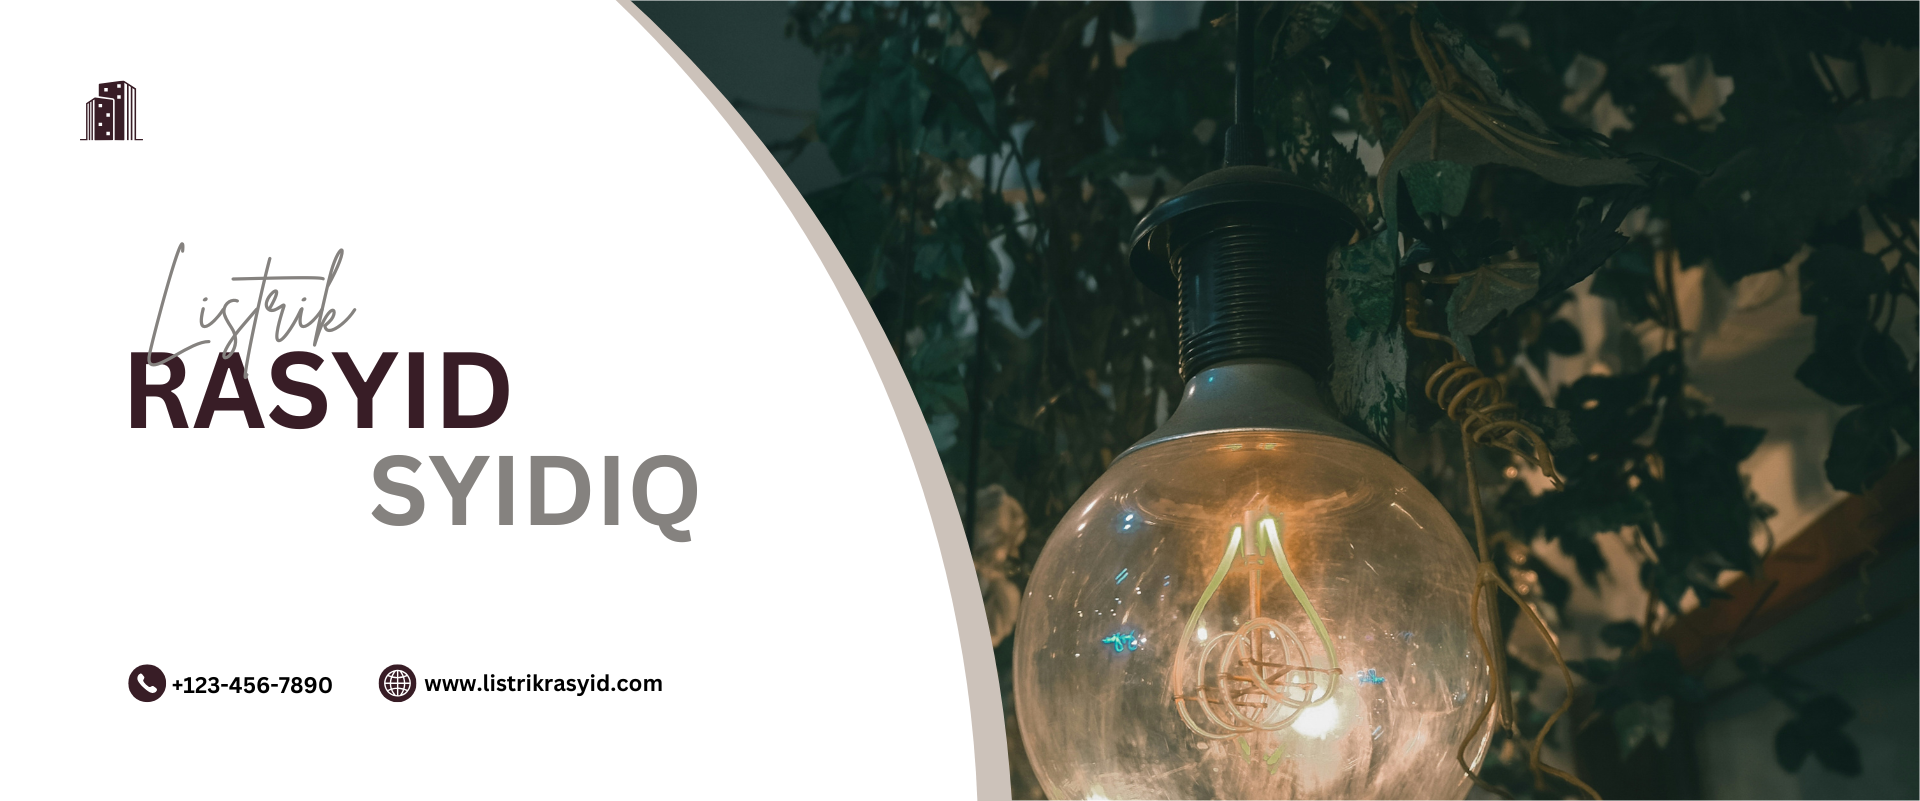
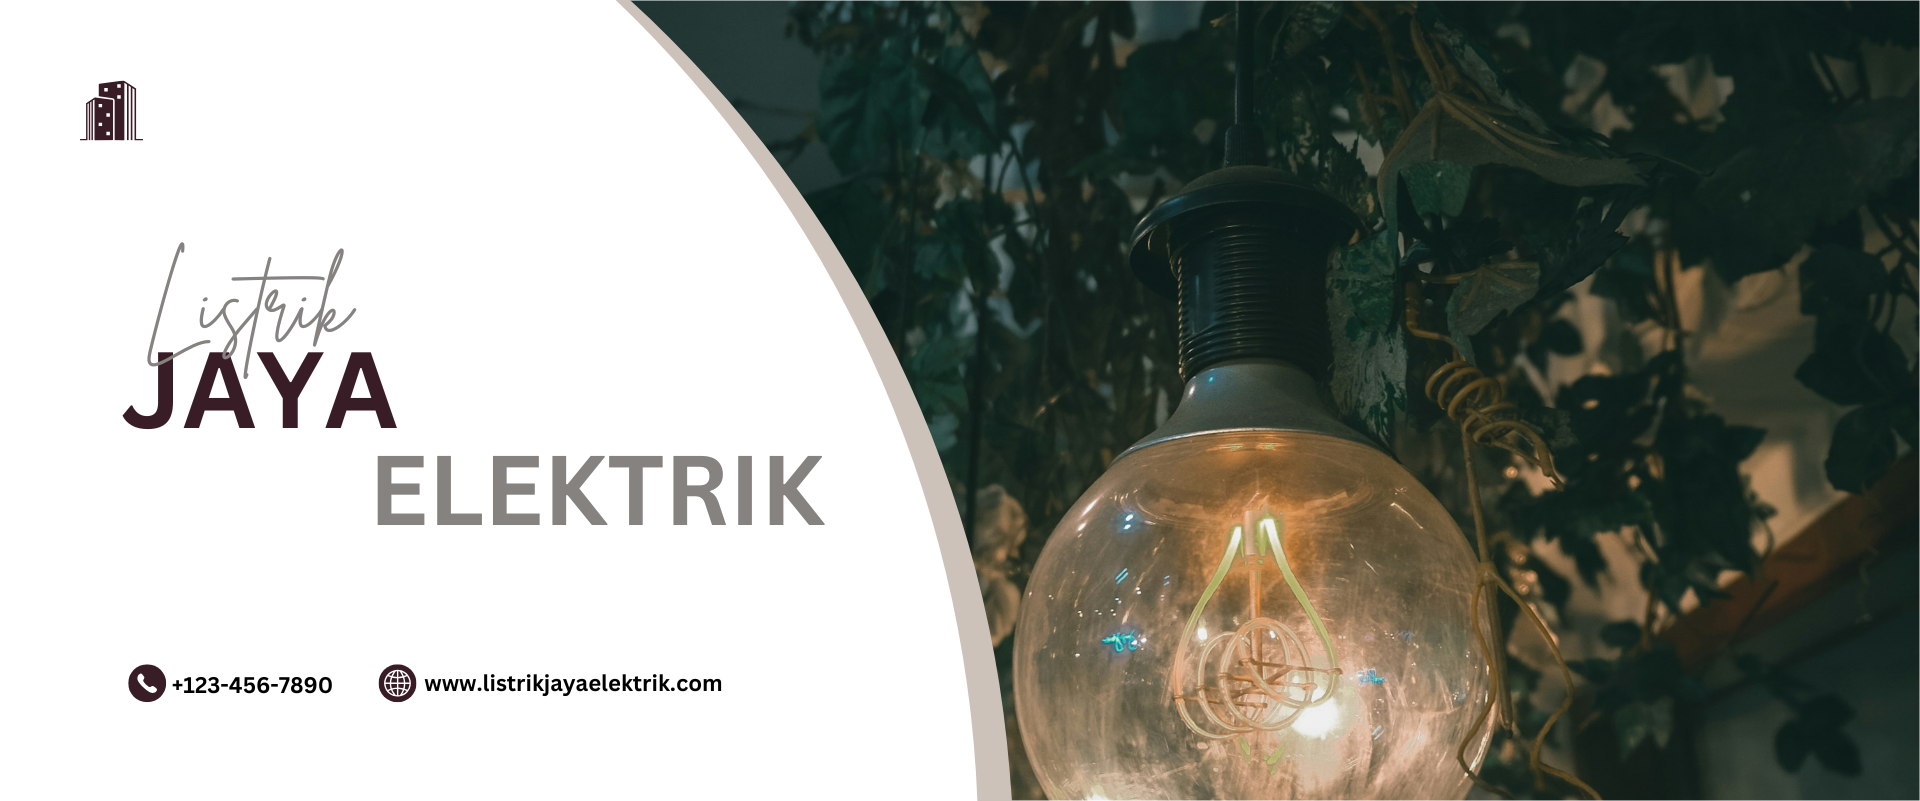
add revisi

Changed region(s): [[0.1875, 0.5618, 0.4375, 0.6866], [0.0625, 0.437, 0.2812, 0.5306], [0.2812, 0.8427, 0.375, 0.8739]]

diff --git a/application/views/Admin/vDetailPenilaian.php b/application/views/Admin/vDetailPenilaian.php
@@ -1,0 +1,96 @@
+<!-- Content Wrapper. Contains page content -->
+<div class="content-wrapper">
+	<!-- Content Header (Page header) -->
+	<section class="content-header">
+		<div class="container-fluid">
+			<div class="row mb-2">
+				<div class="col-sm-6">
+					<h1>Penilaian Produk</h1>
+
+					<!-- /.modal -->
+				</div>
+				<div class="col-sm-6">
+					<ol class="breadcrumb float-sm-right">
+						<li class="breadcrumb-item"><a href="#">Home</a></li>
+						<li class="breadcrumb-item active">User</li>
+					</ol>
+				</div>
+			</div>
+			<?php if ($this->session->userdata('success')) {
+			?>
+				<div class="callout callout-success">
+					<h5>Sukses!</h5>
+
+					<p><?= $this->session->userdata('success') ?></p>
+				</div>
+			<?php
+			} ?>
+
+		</div><!-- /.container-fluid -->
+
+	</section>
+
+	<!-- Main content -->
+	<section class="content">
+		<div class="container-fluid">
+			<div class="row">
+				<div class="col-12">
+					<div class="card">
+						<div class="card-header">
+							<h3 class="card-title">Informasi Penilaian Produk</h3>
+						</div>
+						<!-- /.card-header -->
+						<div class="card-body">
+							<table class="example1 table table-bordered table-striped">
+								<thead>
+									<tr>
+										<th>No</th>
+										<th>Nama Produk</th>
+										<th>Nama Pelanggan</th>
+										<th>Review</th>
+										<th>Rating</th>
+										<th>Time</th>
+									</tr>
+								</thead>
+								<tbody>
+									<?php
+									$no = 1;
+									foreach ($penilaian as $key => $value) {
+									?>
+										<tr>
+											<td><?= $no++ ?>.</td>
+											<td><?= $value->nama_produk ?></td>
+											<td><?= $value->nama_pelanggan ?></td>
+											<td><?= $value->review ?></td>
+											<td>
+												<?php for ($i = 0; $i < $value->rating; $i++) {
+												?>
+													<i style="color: orange;" class="fa fa-star"></i>
+												<?php
+												} ?>
+
+											</td>
+											<td><?= $value->time ?></td>
+
+										</tr>
+									<?php
+									}
+									?>
+
+
+								</tbody>
+
+							</table>
+						</div>
+						<!-- /.card-body -->
+					</div>
+					<!-- /.card -->
+				</div>
+				<!-- /.col -->
+			</div>
+			<!-- /.row -->
+		</div>
+		<!-- /.container-fluid -->
+	</section>
+	<!-- /.content -->
+</div>

diff --git a/application/views/Admin/Transaksi/vTransaksi.php b/application/views/Admin/Transaksi/vTransaksi.php
@@ -90,8 +90,10 @@
 																} ?></td>
 															<td><?php if ($value->metode_pembayaran == '1') {
 																	echo 'DANA';
-																} else {
+																} else if ($value->metode_pembayaran == '2') {
 																	echo 'OVO';
+																} else {
+																	echo 'Transfer Bank';
 																} ?></td>
 															<td>Rp. <?= number_format($value->total_pembayaran)  ?></td>
 															<td><?php if ($value->stat_transaksi == '0') {
@@ -159,8 +161,10 @@
 																} ?></td>
 															<td><?php if ($value->metode_pembayaran == '1') {
 																	echo 'DANA';
-																} else {
+																} else if ($value->metode_pembayaran == '2') {
 																	echo 'OVO';
+																} else {
+																	echo 'Transfer Bank';
 																} ?></td>
 															<td>Rp. <?= number_format($value->total_pembayaran)  ?></td>
 															<td><?php if ($value->stat_transaksi == '0') {
@@ -230,8 +234,10 @@
 																} ?></td>
 															<td><?php if ($value->metode_pembayaran == '1') {
 																	echo 'DANA';
-																} else {
+																} else if ($value->metode_pembayaran == '2') {
 																	echo 'OVO';
+																} else {
+																	echo 'Transfer Bank';
 																} ?></td>
 															<td>Rp. <?= number_format($value->total_pembayaran)  ?></td>
 															<td><?php if ($value->stat_transaksi == '0') {
@@ -300,8 +306,10 @@
 																} ?></td>
 															<td><?php if ($value->metode_pembayaran == '1') {
 																	echo 'DANA';
-																} else {
+																} else if ($value->metode_pembayaran == '2') {
 																	echo 'OVO';
+																} else {
+																	echo 'Transfer Bank';
 																} ?></td>
 															<td>Rp. <?= number_format($value->total_pembayaran)  ?></td>
 															<td><?php if ($value->stat_transaksi == '0') {

diff --git a/application/views/Pelanggan/vDetailPesanan.php b/application/views/Pelanggan/vDetailPesanan.php
@@ -173,11 +173,15 @@
 									<?php
 									if ($detail['pelanggan']->metode_pembayaran == '1') {
 									?>
-										<small>Pembayaran dapat dilakukan melalui DANA Atas Nama <strong>Listrik Rasyid Syidiq</strong> dengan Nomor Dana. <strong>085-432-948-934</strong></small><br>
+										<small>Pembayaran dapat dilakukan melalui DANA Atas Nama <strong>Listrik Jaya Elektrik</strong> dengan Nomor Dana. <strong>085-432-948-934</strong></small><br>
 									<?php
 									} else if ($detail['pelanggan']->metode_pembayaran == '2') {
 									?>
-										<small>Pembayaran dapat dilakukan melalui OVO Atas Nama <strong>Listrik Rasyid Syidiq</strong> dengan Nomor OVO. <strong>32098-0912-012978</strong></small><br>
+										<small>Pembayaran dapat dilakukan melalui OVO Atas Nama <strong>Listrik Jaya Elektrik</strong> dengan Nomor OVO. <strong>32098-0912-012978</strong></small><br>
+									<?php
+									} else {
+									?>
+										<small>Pembayaran dapat dilakukan melalui Bank BRI Atas Nama <strong>Listrik Jaya Elektrik</strong> dengan Nomor Rekening. <strong>0133-03284-0348</strong></small><br>
 									<?php
 									}
 									?>

diff --git a/application/views/Admin/vDashboard.php b/application/views/Admin/vDashboard.php
@@ -75,15 +75,18 @@
 				</div>
 				<!-- /.col -->
 				<div class="col-12 col-sm-6 col-md-3">
-					<div class="info-box mb-3">
-						<span class="info-box-icon bg-warning elevation-1"><i class="fas fa-users"></i></span>
+					<a class="text-info" href="<?= base_url('Admin/cDashboard/detail_penilaian') ?>">
+						<div class="info-box mb-3">
+							<span class="info-box-icon bg-warning elevation-1"><i class="fas fa-users"></i></span>
 
-						<div class="info-box-content">
-							<span class="info-box-text">Penilaian</span>
-							<span class="info-box-number"><?= $penilaian->jml ?></span>
+							<div class="info-box-content">
+								<span class="info-box-text">Penilaian</span>
+								<span class="info-box-number"> <small>Klik Detail Penilaian!</small></span>
+
+							</div>
+							<!-- /.info-box-content -->
 						</div>
-						<!-- /.info-box-content -->
-					</div>
+					</a>
 					<!-- /.info-box -->
 				</div>
 				<!-- /.col -->

diff --git a/application/controllers/Admin/cDashboard.php b/application/controllers/Admin/cDashboard.php
@@ -51,6 +51,17 @@ class cDashboard extends CI_Controller
 		$this->session->set_flashdata('success', 'Pesan Berhasil dikirim!');
 		redirect('Admin/cDashboard/chat/' . $id_pelanggan);
 	}
+	public function detail_penilaian()
+	{
+		$data = array(
+			'penilaian' => $this->db->query("SELECT * FROM `penilaian` JOIN transaksi ON penilaian.id_transaksi=transaksi.id_transaksi JOIN detail_tran ON detail_tran.id_transaksi=transaksi.id_transaksi JOIN produk ON produk.id_produk=detail_tran.id_produk JOIN pelanggan ON pelanggan.id_pelanggan=transaksi.id_pelanggan")->result()
+		);
+		$this->load->view('Admin/Layouts/head');
+		$this->load->view('Admin/Layouts/navbar');
+		$this->load->view('Admin/Layouts/aside');
+		$this->load->view('Admin/vDetailPenilaian', $data);
+		$this->load->view('Admin/Layouts/footer');
+	}
 }
 
 /* End of file cDashboard.php */

diff --git a/application/views/Pelanggan/vRegistrasi.php b/application/views/Pelanggan/vRegistrasi.php
@@ -17,7 +17,7 @@
 	<!-- Style -->
 	<link rel="stylesheet" href="<?= base_url('asset/login-form-08/') ?>css/style.css">
 
-	<title>LOGIN - LISTRIK RASYID SYIDIQ</title>
+	<title>REGISTRASI - LISTRIK JAYA ELEKTRIK</title>
 </head>
 
 <body>
@@ -34,7 +34,7 @@
 					<div class="row justify-content-center">
 						<div class="col-md-8">
 							<div class="mb-4">
-								<h3>Registered to <strong>Listrik Rasyid Syidiq</strong></h3>
+								<h3>Registered to <strong>Listrik Jaya Elektrik</strong></h3>
 								<p class="mb-4">Silahkan melakukan registrasi untuk melakukan login.</p>
 							</div>
 							<form action="<?= base_url('Pelanggan/cLogin/registrasi') ?>" method="post">

diff --git a/application/views/Pelanggan/vLogin.php b/application/views/Pelanggan/vLogin.php
@@ -17,7 +17,7 @@
 	<!-- Style -->
 	<link rel="stylesheet" href="<?= base_url('asset/login-form-08/') ?>css/style.css">
 
-	<title>LOGIN - LISTRIK RASYID SYIDIQ</title>
+	<title>LOGIN - LISTRIK JAYA ELEKTRIK</title>
 </head>
 
 <body>
@@ -34,7 +34,7 @@
 					<div class="row justify-content-center">
 						<div class="col-md-8">
 							<div class="mb-4">
-								<h3>Sign In to <strong>Listrik Rasyid Syidiq</strong></h3>
+								<h3>Sign In to <strong>Listrik Jaya Elektrik</strong></h3>
 								<p class="mb-4">Silahkan melakukan login untuk melakukan transaksi.</p>
 							</div>
 							<?php

diff --git a/application/views/Pelanggan/vKatalog.php b/application/views/Pelanggan/vKatalog.php
@@ -65,7 +65,14 @@ if ($this->session->userdata('success') != '') {
 						</div>
 						<div class="product__item__text">
 							<h6><?= $value->nama_produk ?></h6>
-							<a href="<?= base_url('Pelanggan/cKatalog/add_cart/' . $value->id_produk) ?>" class="add-cart">+ Add To Cart</a>
+							<?php
+							if ($this->session->userdata('id_pelanggan')) {
+							?>
+								<a href="<?= base_url('Pelanggan/cKatalog/add_cart/' . $value->id_produk) ?>" class="add-cart">+ Add To Cart</a>
+
+							<?php
+							}
+							?>
 
 							<?php
 							//rating produk 

diff --git a/application/views/Admin/Transaksi/vDetailTransaksi.php b/application/views/Admin/Transaksi/vDetailTransaksi.php
@@ -76,8 +76,10 @@
 							<div class="col-sm-4 mb-3">
 								<p class="lead">Payment Methods: <strong> <?php if ($transaksi['pelanggan']->metode_pembayaran == '1') {
 																				echo 'DANA';
-																			} else {
+																			} else if ($transaksi['pelanggan']->metode_pembayaran == '2') {
 																				echo 'OVO';
+																			} else {
+																				echo 'Transfer Bank';
 																			}  ?> </strong></p>
 								<?php
 								if ($transaksi['pelanggan']->stat_transaksi != '0') {

diff --git a/application/views/Pelanggan/Layouts/footer.php b/application/views/Pelanggan/Layouts/footer.php
@@ -10,7 +10,7 @@
 						<script>
 							document.write(new Date().getFullYear());
 						</script>
-						LISTRIK RASYID SYIDIQ | KUNINGAN <i class="fa fa-heart-o" aria-hidden="true"></i> by <a href="https://colorlib.com" target="_blank">ARIEF</a>
+						LISTRIK JAYA ELEKTRIK | KUNINGAN <i class="fa fa-heart-o" aria-hidden="true"></i> by <a href="https://colorlib.com" target="_blank">ARIEF</a>
 					</p>
 					<!-- Link back to Colorlib can't be removed. Template is licensed under CC BY 3.0. -->
 				</div>

diff --git a/application/views/Pelanggan/Layouts/head.php b/application/views/Pelanggan/Layouts/head.php
@@ -7,7 +7,7 @@
 	<meta name="keywords" content="Male_Fashion, unica, creative, html">
 	<meta name="viewport" content="width=device-width, initial-scale=1.0">
 	<meta http-equiv="X-UA-Compatible" content="ie=edge">
-	<title>PELANGGAN | LISTRIK RASYID SYIDIQ</title>
+	<title>PELANGGAN | LISTRIK JAYA ELEKTRIK</title>
 
 	<!-- Google Font -->
 	<link href="https://fonts.googleapis.com/css2?family=Nunito+Sans:wght@300;400;600;700;800;900&display=swap" rel="stylesheet">

diff --git a/application/views/Admin/Layouts/aside.php b/application/views/Admin/Layouts/aside.php
@@ -3,7 +3,7 @@
 	<!-- Brand Logo -->
 	<a href="index3.html" class="brand-link">
 		<img src="<?= base_url('asset/Admin/') ?>dist/img/AdminLTELogo.png" alt="AdminLTE Logo" class="brand-image img-circle elevation-3" style="opacity: .8">
-		<span class="brand-text font-weight-light">LISTRIK RASYID</span>
+		<span class="brand-text font-weight-light">JAYA ELEKTRIK</span>
 	</a>
 
 	<!-- Sidebar -->
